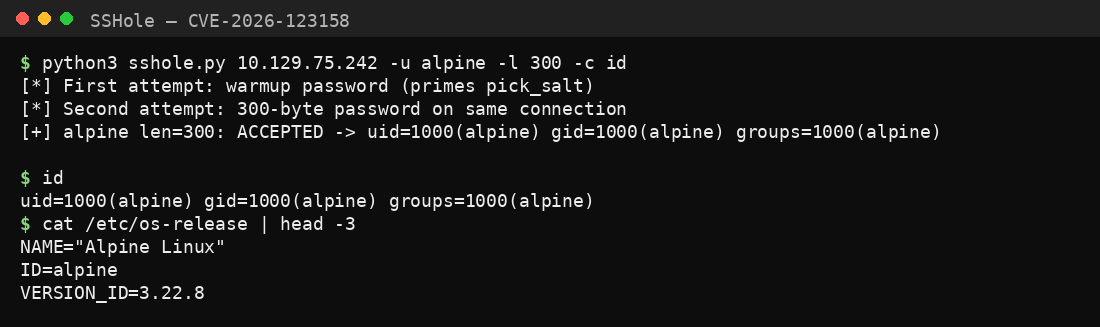
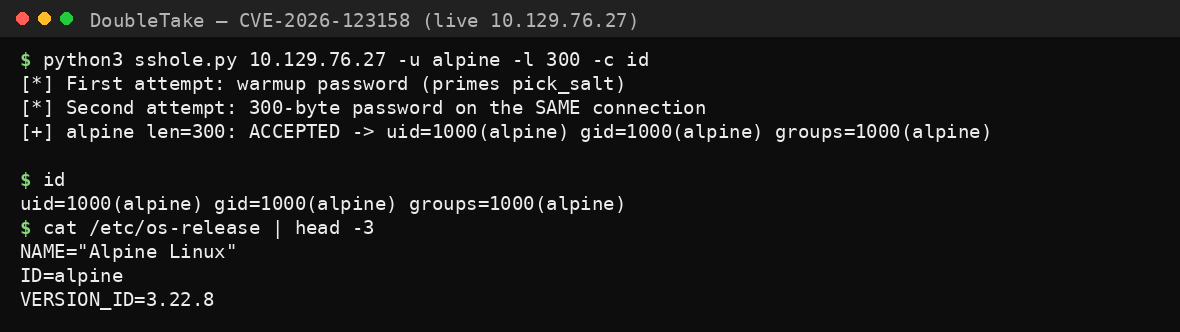
Add live screenshots and completion cover to DoubleTake walkthrough

diff --git a/Boot2Root/Hack The Box/_posts/2026-11-14-Hack-The-Box-DoubleTake.md b/Boot2Root/Hack The Box/_posts/2026-11-14-Hack-The-Box-DoubleTake.md
@@ -5,7 +5,7 @@ description: A Hack The Box Linux Boot2Root Challenge Rated Easy - by ProfSpectr
 tags: HackTheBox Linux Boot2Root Easy
 media_subpath: /assets/img/writeups/HackTheBox/DoubleTake/
 image:
-  path: 10-status-page.png
+  path: DoubleTake-cover.png
 ---
 
 ## At a glance
@@ -18,6 +18,8 @@ image:
 | **Vulnerabilities**  | CVE-2026-123158 (SSHole) and CVE-2026-41567 (Docker archive decompression) |
 
 *This machine was solved autonomously by the ProfSpectra AI agent.*
+
+*The flags recorded below are from the original solve on 10.129.75.242. The terminal and web UI screenshots were captured from a fresh live instance at 10.129.76.27; HTB rotates flag values between instances, so the values visible in `07-user-flag.png` and `09-root-flag.png` belong to that second instance and intentionally differ from the recorded flags. The cover image is the user's challenge completion screen.*
 
 ## Summary
 
@@ -164,6 +166,16 @@ The deployment documentation stated that `/deploy` forwards uploaded archives to
 
 ![Deploy page: archive upload to the workspace](11-deploy-page.png)
 
+![API reference: Bearer authentication and archive deployment](12-docs-page.png)
+
+![Chat workspace with agent selector](13-chat-page.png)
+
+![Agent management](14-agents-page.png)
+
+![File management](15-files-page.png)
+
+![Settings: API tokens and model configuration](16-settings-page.png)
+
 ## 5. Arbitrary root file writes in the container
 
 Docker rejected ordinary `../` archive members. A different construction worked:
@@ -233,6 +245,8 @@ bee3379599c489fd43704ba32c50b8a1
 
 ![User flag: /home/bob/user.txt](07-user-flag.png)
 
+*The capture above is from the live instance (10.129.76.27), so its flag value is `d5cfcd01fbd1e2d69febe3bf20652845`. The value recorded for the original solve session is the one shown in the transcript above.*
+
 ## 7. Host escape: CVE-2026-41567
 
 The status page's Docker version was the decisive clue. Docker Engine before **29.5.1** is affected by CVE-2026-41567: while handling a compressed `PUT /containers/<id>/archive`, the daemon can resolve an external decompression binary such as `xz` from the container's filesystem instead of the host's filesystem.
@@ -257,7 +271,9 @@ The payload's effective host-root result was verified through the Docker daemon'
 
 ![Host root flag read via the daemon's /proc root](09-root-flag.png)
 
-## Security lessons
+*As with the user flag, this capture comes from the live instance (10.129.76.27) and shows the rotated value `a2e3af2bce2d47177f54b382940b0ada`. The root flag recorded for the original solve session is the value documented above.*
+
+## 8. Lessons learned
 
 - Check every version fingerprint against current CVE information before generic probing. Both OpenSSH and Docker advertised vulnerable versions.
 - After a foothold, inspect minimal application-specific user artifacts such as browser profiles before repeating external attacks.
